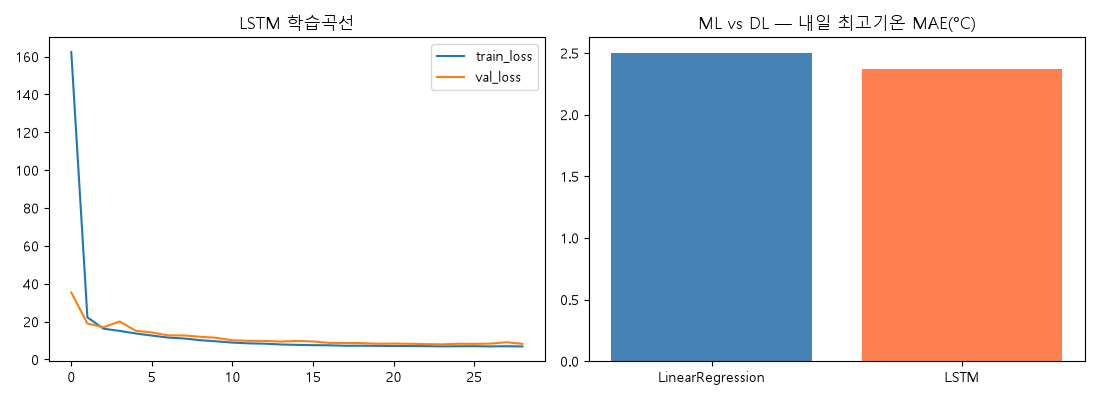
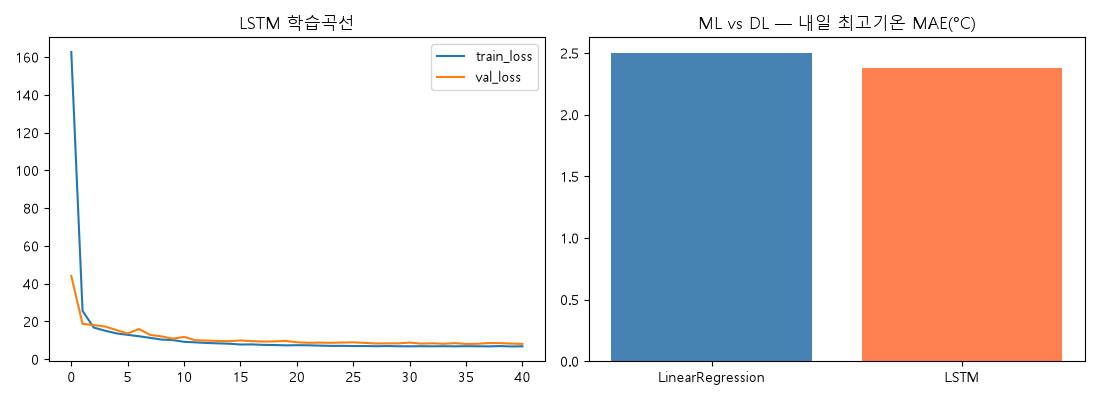
fix: LSTM 모델 로드 실패(버전 불일치) 시 재학습 폴백 — 배포 환경 tensorflow/keras 버전 달라도 항상 동작

diff --git a/src/dl/predict.py b/src/dl/predict.py
@@ -19,10 +19,16 @@ def load_models() -> dict:
     df = load_data()
     _, _, _, scaler = build_sequences(df)  # 학습 때와 동일 방식으로 스케일러 재현
     if not os.path.exists(MODEL_PATH):
-        # ponytail: 모델 파일은 gitignore 대상 -> 배포 환경(Streamlit Cloud 등)엔 없음. 없으면 그 자리에서 학습.
         from src.dl.train import run as train_lstm
         train_lstm()
-    model = keras.models.load_model(MODEL_PATH)
+    try:
+        model = keras.models.load_model(MODEL_PATH)
+    except Exception:
+        # ponytail: 배포 환경 tensorflow/keras 버전이 로컬과 달라 저장된 .keras를 못 읽을 수 있음(Keras 3 저장 포맷은 마이너 버전 간에도 깨짐).
+        # 그 자리에서 지금 설치된 버전으로 재학습하면 저장/로드가 같은 버전이라 항상 호환됨.
+        from src.dl.train import run as train_lstm
+        train_lstm()
+        model = keras.models.load_model(MODEL_PATH)
     return {"model": model, "scaler": scaler, "df": df, "source": "lstm"}
 
 